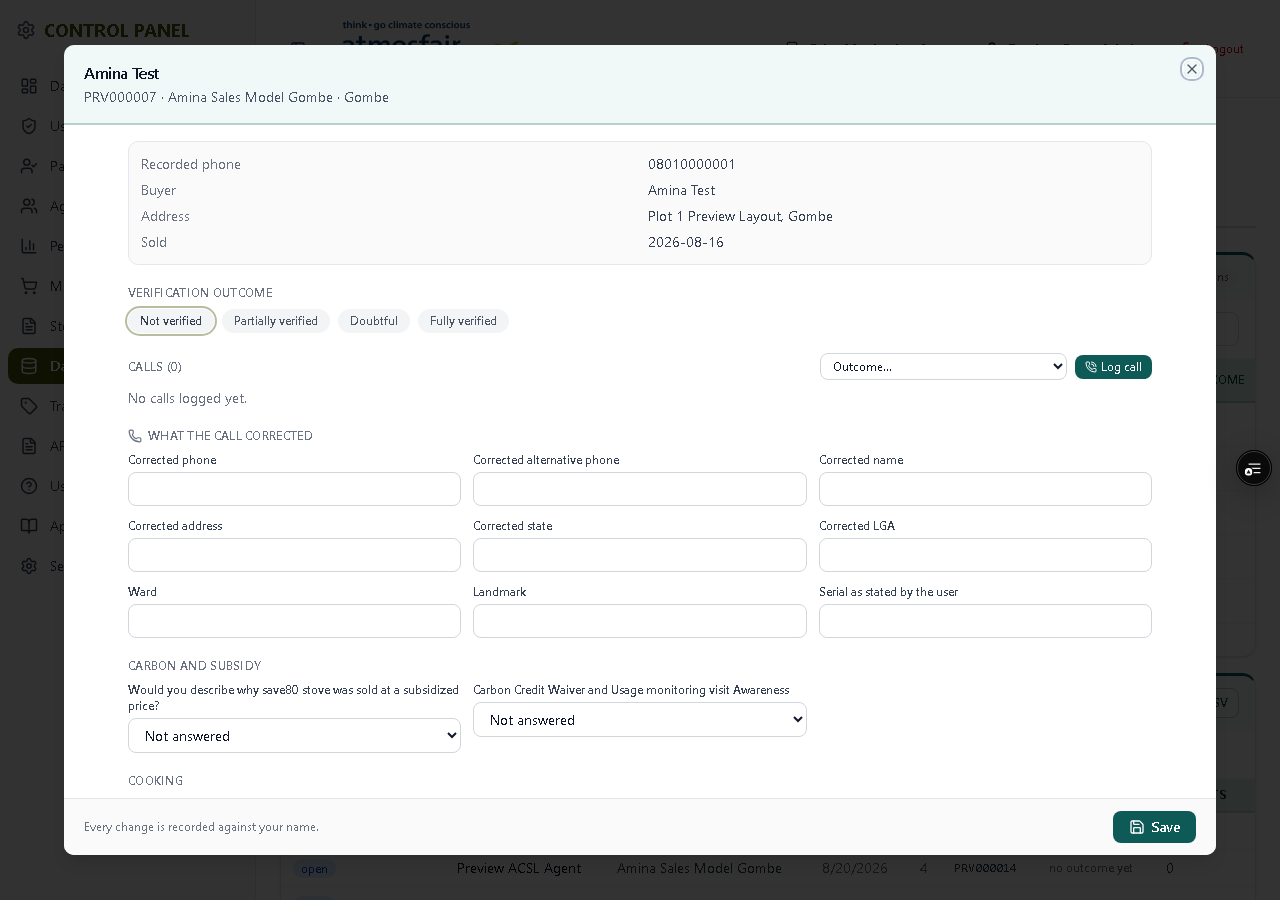
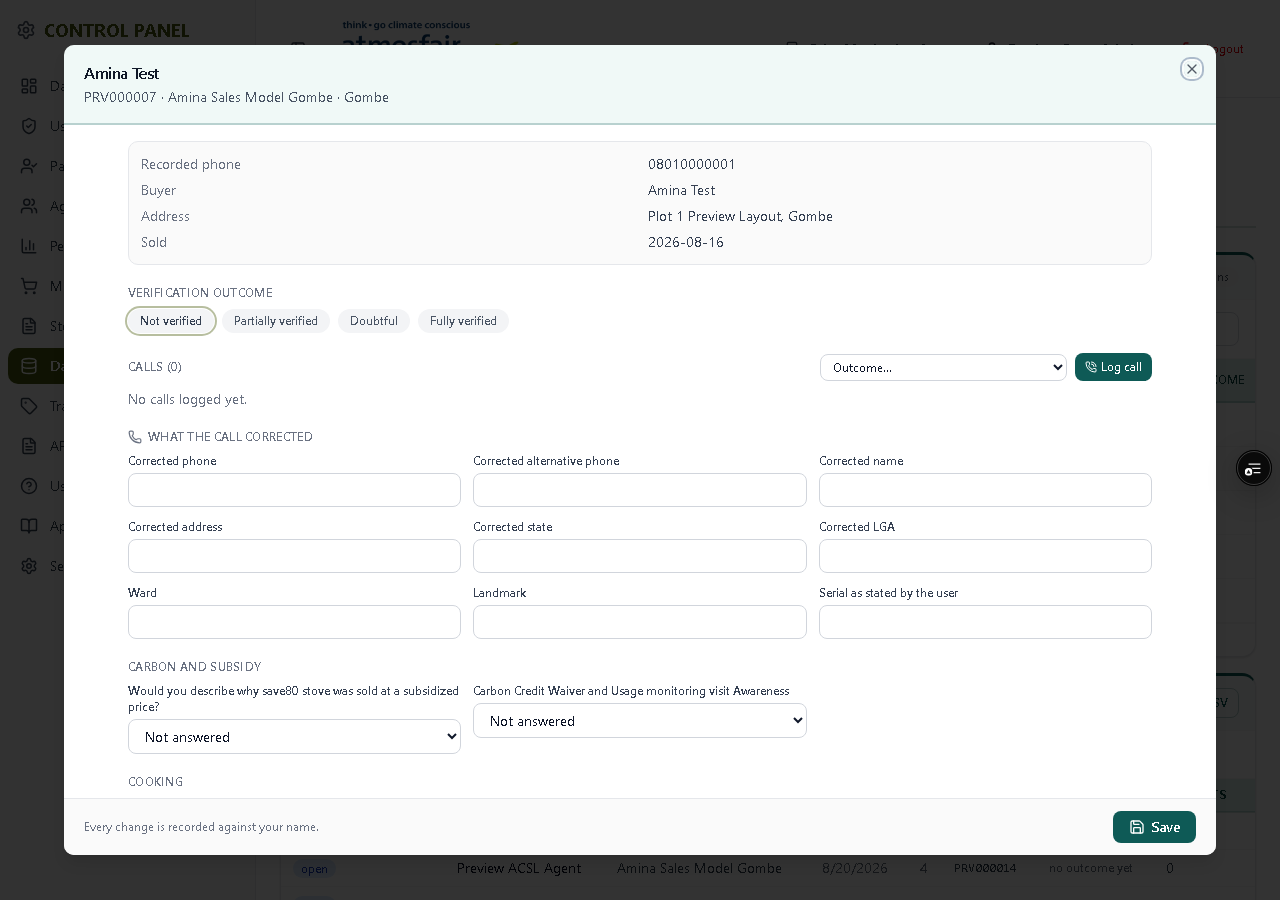
fix(data-center): what the finish review found
The stat-card arrow sat at gray-300, which is 1.6:1 on white. A phone has no
hover, so on the device the brief singled out, the only signal that a figure
leads anywhere was invisible. It rests at the accent now and deepens on hover.

The import head and its upload strip ran together into one plum band with no
rule between them. The upload strip is where you act, so it sits on white and
the head keeps the tint.

PRODUCT.md is written, from measured truth rather than intention: who uses this,
on what, and the two facts that shape every layout decision here, that paper is
still the real system of record and that the module is built for 500,000 rows it
does not yet hold. Both states have to look deliberate.

The screenshot spec also captures the commit confirmation, which the brief names
and which no static page can show: it exists only while a destructive action is
pending, so a review round that never opened one had not seen it.

Disclosure: the shipped finish-reviewer agent is not registered in this harness,
so that pass ran inline from the skill's degraded reference.

diff --git a/e2e/zz-shots.spec.ts b/e2e/zz-shots.spec.ts
@@ -26,6 +26,22 @@ for (const [device, width, height] of [
       await page.screenshot({ path: `.impeccable/shots/${name}-${device}.png` });
     }
 
+    // The commit confirmation, which the brief names and a static page cannot
+    // show: it only exists while a destructive action is pending.
+    await page.goto("/data-center/import");
+    await page.waitForTimeout(4000);
+    const details = page.getByRole("button", { name: "details" }).first();
+    if (await details.count()) {
+      await details.click();
+      await page.waitForTimeout(1200);
+      const commit = page.getByRole("button", { name: /^Commit \d/ }).first();
+      if (await commit.count()) {
+        await commit.click();
+        await page.waitForTimeout(1500);
+        await page.screenshot({ path: `.impeccable/shots/confirm-${device}.png` });
+      }
+    }
+
     await page.goto("/data-center/call-centre");
     const row = page.getByRole("button", { name: /^Open call record for/ }).first();
     await row.waitFor({ state: "visible", timeout: 30_000 });

diff --git a/src/app/data-center/features/dashboard/Dashboard.jsx b/src/app/data-center/features/dashboard/Dashboard.jsx
@@ -80,7 +80,7 @@ function Card({ label, value: v, hint, tone, to, search, arrow }) {
       {body}
       <ArrowUpRight
         aria-hidden="true"
-        className="absolute right-3 top-3 h-4 w-4 text-gray-300 transition group-hover:text-(--dc-accent)"
+        className="absolute right-3 top-3 h-4 w-4 text-(--dc-accent)/60 transition group-hover:text-(--dc-accent)"
       />
     </Link>
   );

diff --git a/PRODUCT.md b/PRODUCT.md
@@ -1,0 +1,74 @@
+# ACSL Sales Monitoring: product truth
+
+Written for design work on the Data Center module. It records what is true, not
+what is intended: every figure here was measured against the live database.
+
+## What this is
+
+A web application ACSL staff use to monitor stoves sold through partners across
+Nigeria. Field agents record a sale against a stove serial; partners hold stock
+transferred from the factory; a call centre rings the buyer afterwards to
+confirm the sale is real.
+
+A Flutter mobile app shares its database and serves the field. **The Data Center
+module is web only and must never be reachable from it**, which is enforced by
+keeping the `data_center` schema out of PostgREST's exposed schemas.
+
+## Who uses it
+
+| Who | What they do | On what |
+|---|---|---|
+| Super admins | Everything, including granting Data Center access | Desktop |
+| ACSL agents and their managers | Work assigned partners' records | Desktop, sometimes a phone |
+| Call agents | Ring buyers, record what each call concluded | Desktop at a station; a phone in the field |
+| Partners and partner agents | Their own organisation's sales | Phone, mostly |
+
+Nigeria. Android-majority, mid-range devices, mobile data that is not always
+good. The Data Center is a desktop tool first because its tables are wide and
+its work is sustained, and it must still work in a hand, because a call agent
+with a list of numbers has a phone and not a laptop.
+
+## The Data Center, specifically
+
+A computation and dashboard module inside the app, added in 2026. It answers one
+question the rest of the app cannot: **of everything sold through partners, how
+much has actually come back, been typed up, and been confirmed?**
+
+Five areas: a dashboard of scorecards, the call centre queue and assignment log,
+partner reconciliation, the sold-stove table, and bulk import of digitalised
+paper receipts.
+
+## Facts that shape design decisions
+
+Measured in production, 2026-08:
+
+| | |
+|---|---|
+| Transfers to partners | 497 |
+| Stoves transferred | 14,564 |
+| Partners | 278 |
+| Sales recorded in the app | 38 |
+| Capacity the module is built for | 500,000 |
+
+**Paper and Excel are still the real system of record.** The app holds a
+fraction of a percent of what has been sold. A design that assumes full tables
+will be wrong for a year; a design that assumes empty ones will be wrong after
+that. Both states have to look deliberate.
+
+Roughly one imported serial in twelve matches no stock record. That is the
+normal case, not a failure, and it routes to an exceptions queue.
+
+## Constraints that are not negotiable
+
+- **The sales app must not notice this module exists.** `main` deploys straight
+  to production and a cron merges contractor work into it daily. The module
+  hand-edits exactly two files outside itself.
+- **No new dependencies.** `package.json` and `bun.lock` are in that daily merge;
+  a lockfile conflict costs more than writing forty lines by hand.
+- One accent, five areas, and the host's own olive stays the anchor. The module
+  is a room in a house, not a new house.
+
+## Language
+
+British-influenced Nigerian English: "digitalised", "organisation" in prose.
+Column names and code stay as the schema spells them.
